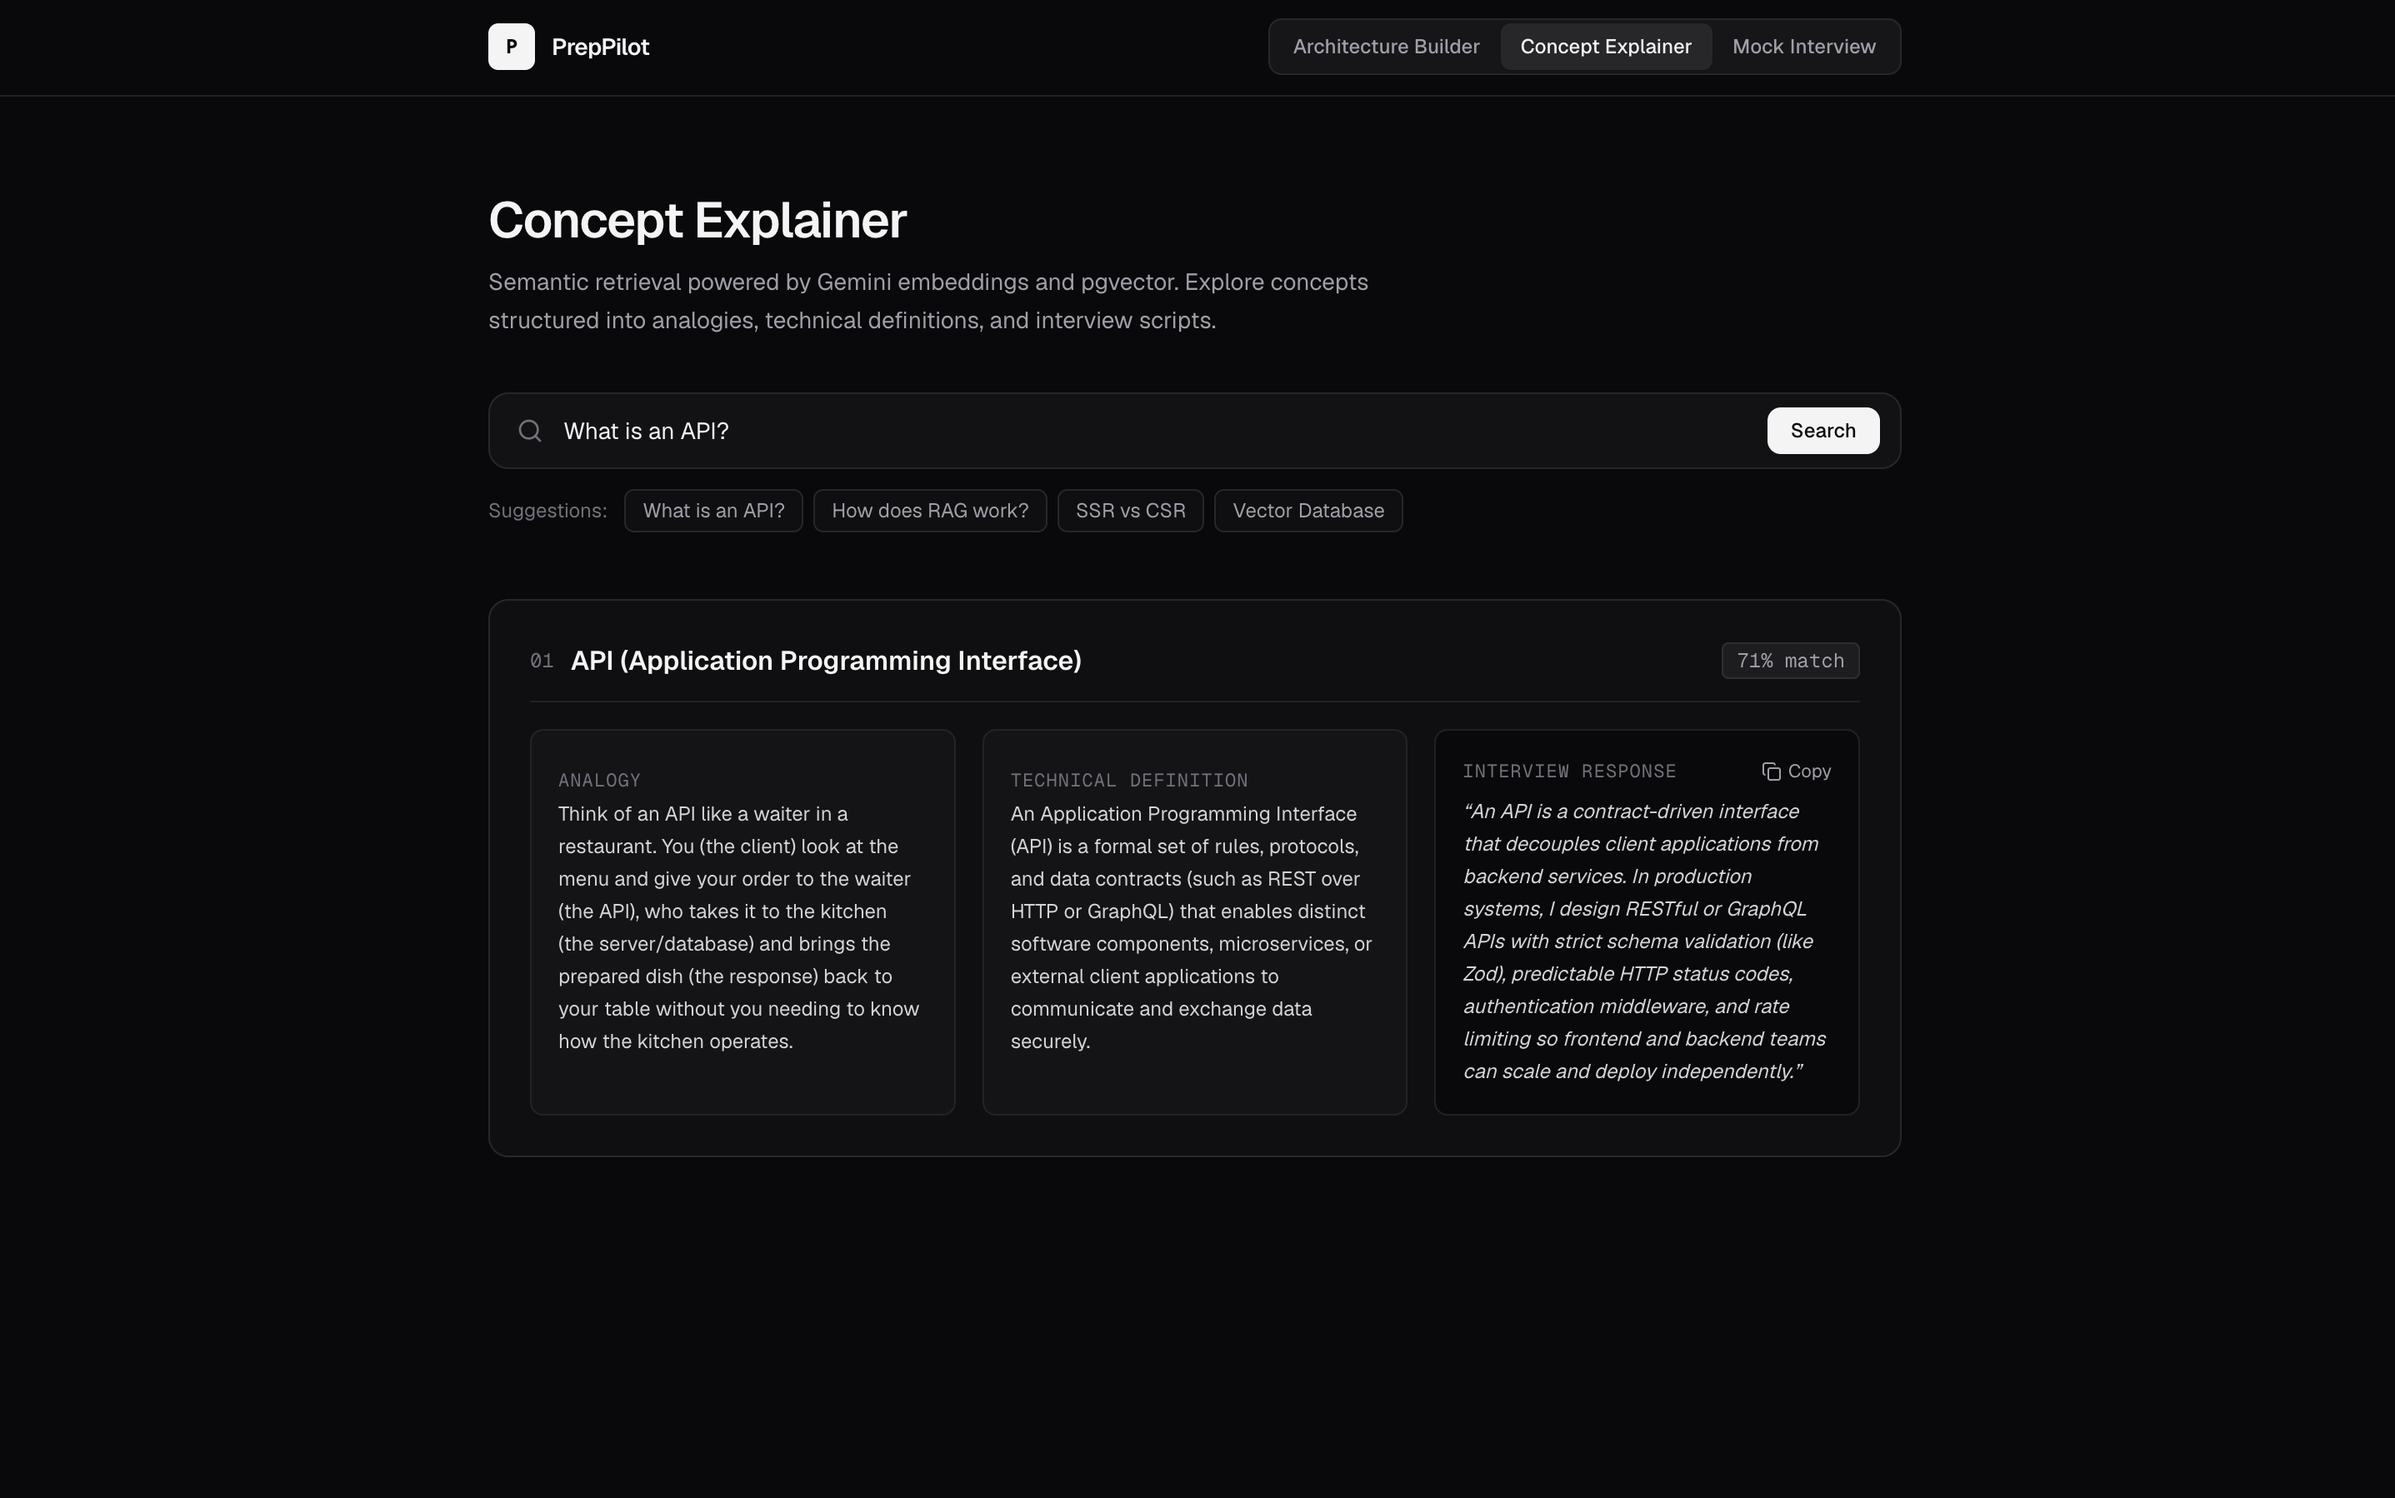
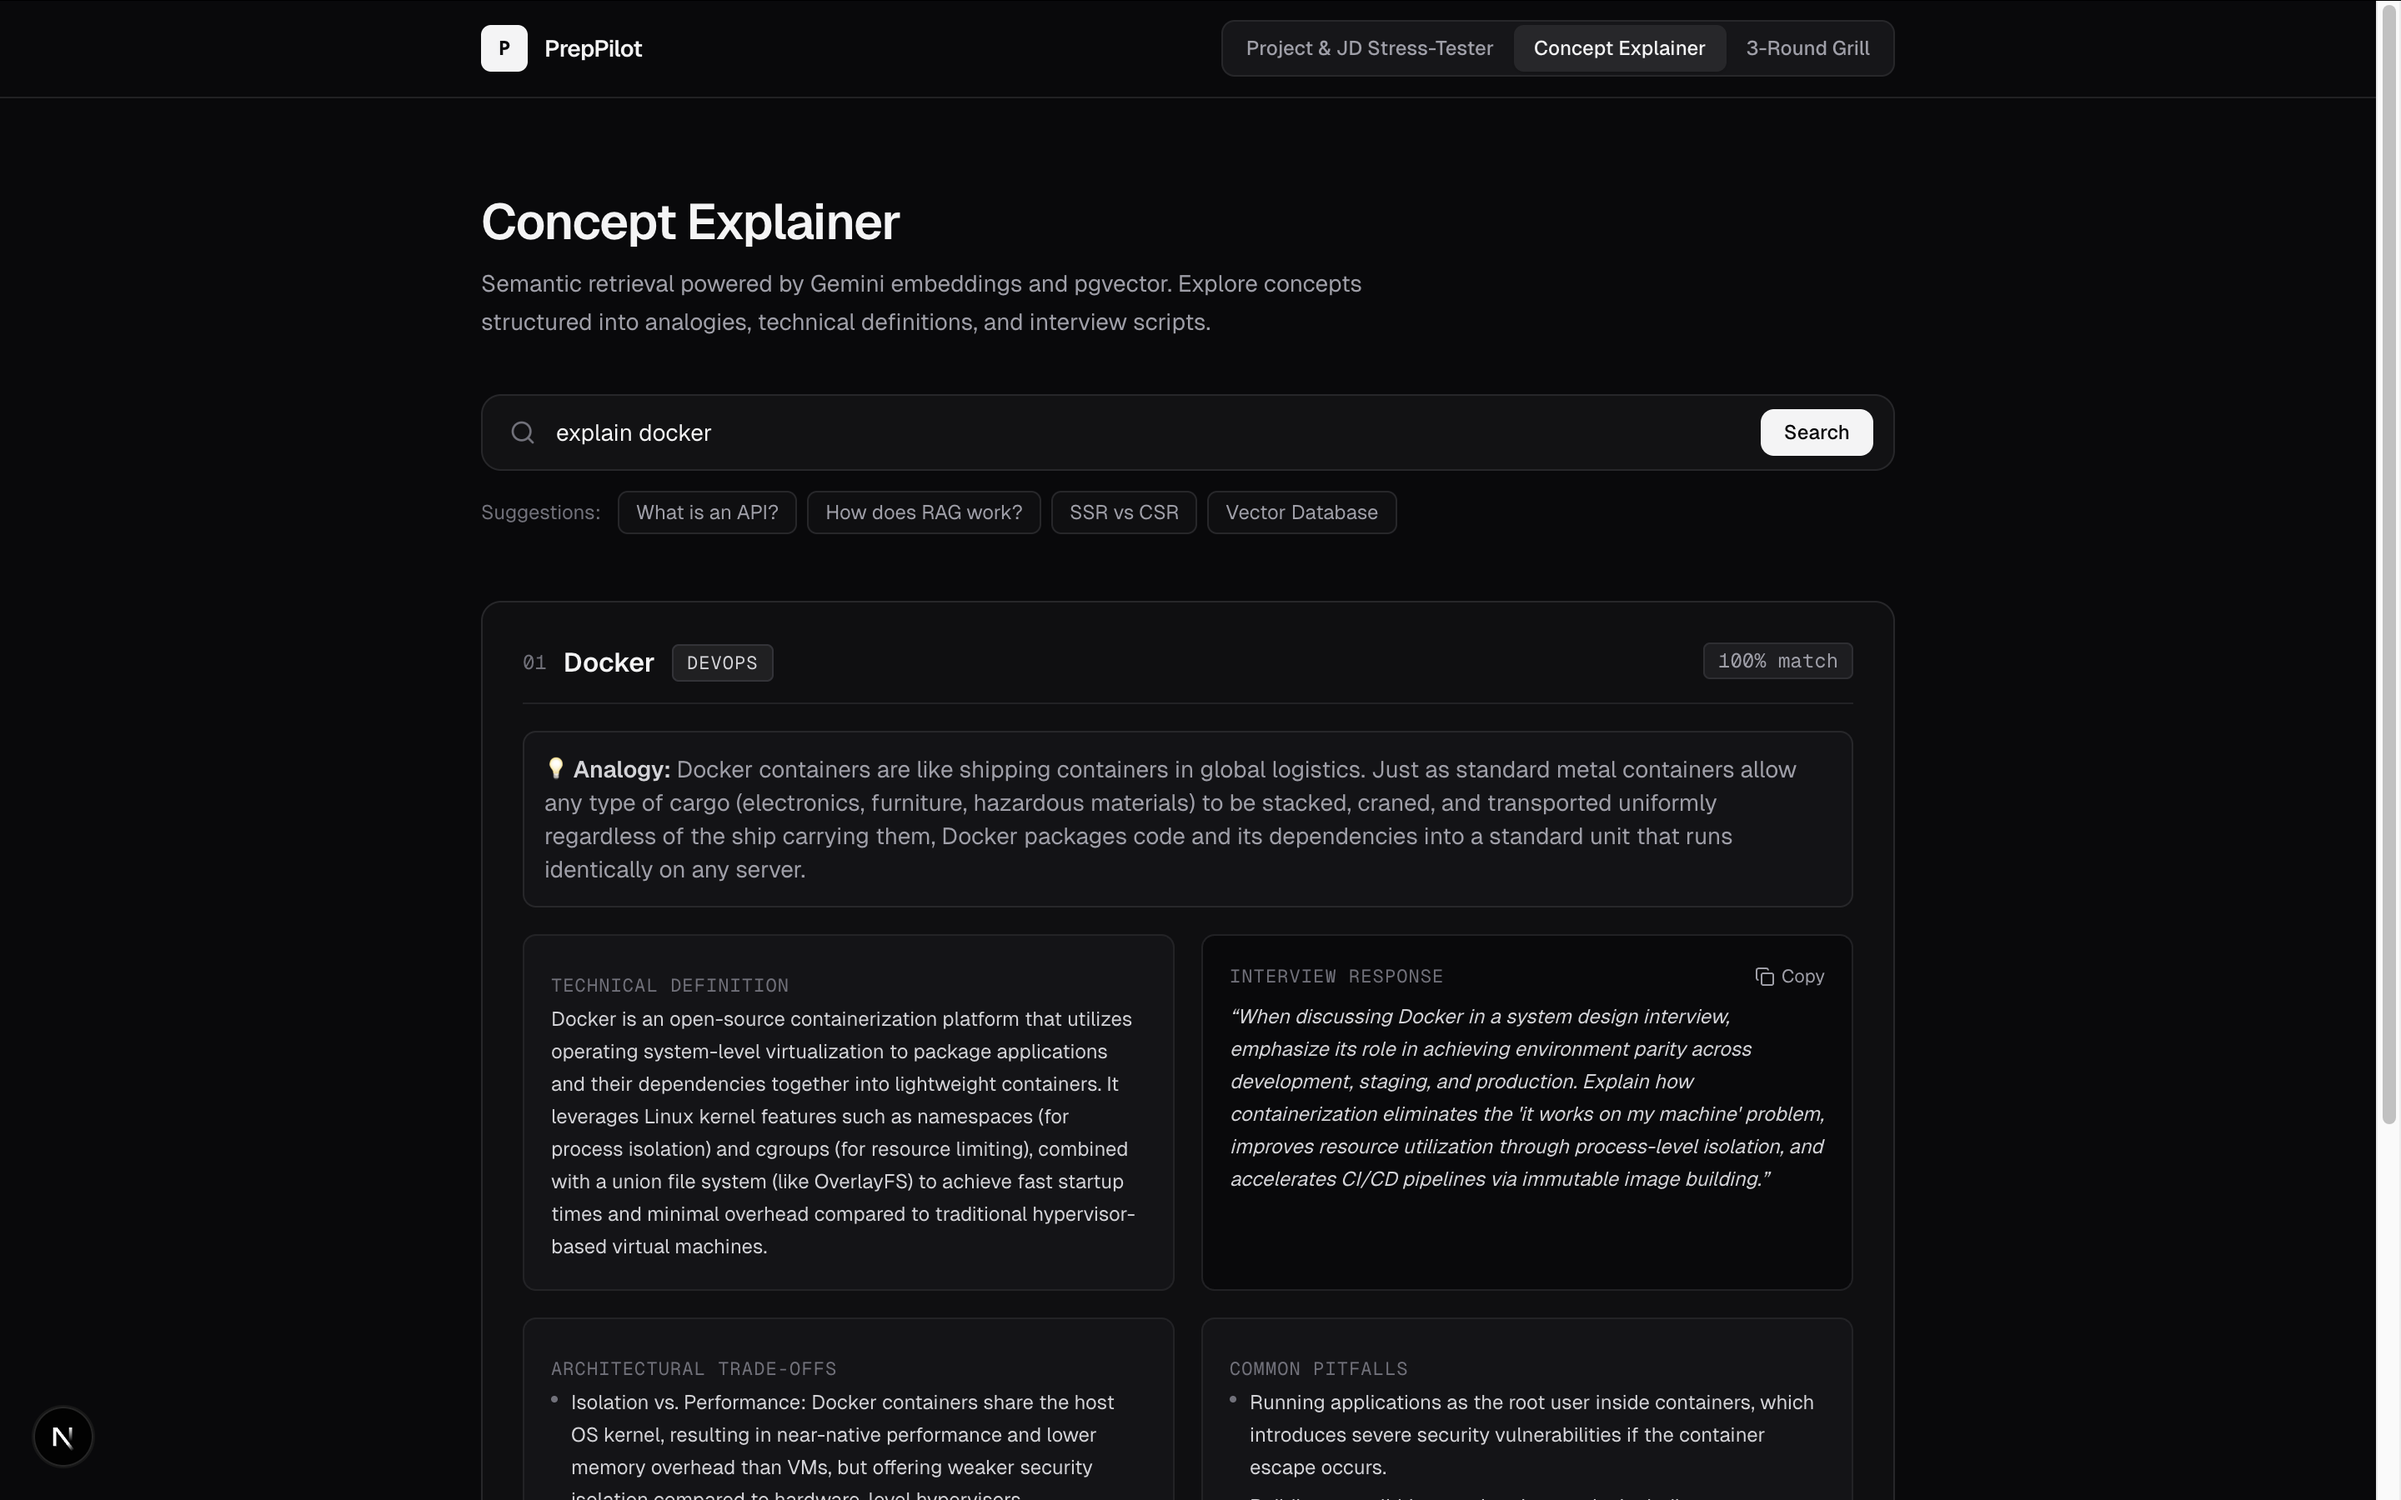
docs(readme): update product screenshots and demo walkthrough previews

diff --git a/README.md b/README.md
@@ -17,14 +17,14 @@
 
 🔗 **Live demo:** [https://preppilot-ai-eight.vercel.app/](https://preppilot-ai-eight.vercel.app/)
 
-<!-- ### Blueprint Builder
-![Blueprint Builder](./public/screenshots/blueprint-builder.png)
+### Blueprint Builder
+![Project & JD Stress-Tester](./public/screenshots/stress-tester.png)
 
 ### Concept Explainer
 ![Concept Explainer](./public/screenshots/concept-explainer.png)
 
-### Mock Interview
-![Mock Interview](./public/screenshots/mock-interview.png) -->
+### 3-Round Grill & Senior Rewrite
+![3-Round Grill & Senior Rewrite](./public/screenshots/mock-interview.png)
 
 ---
 
